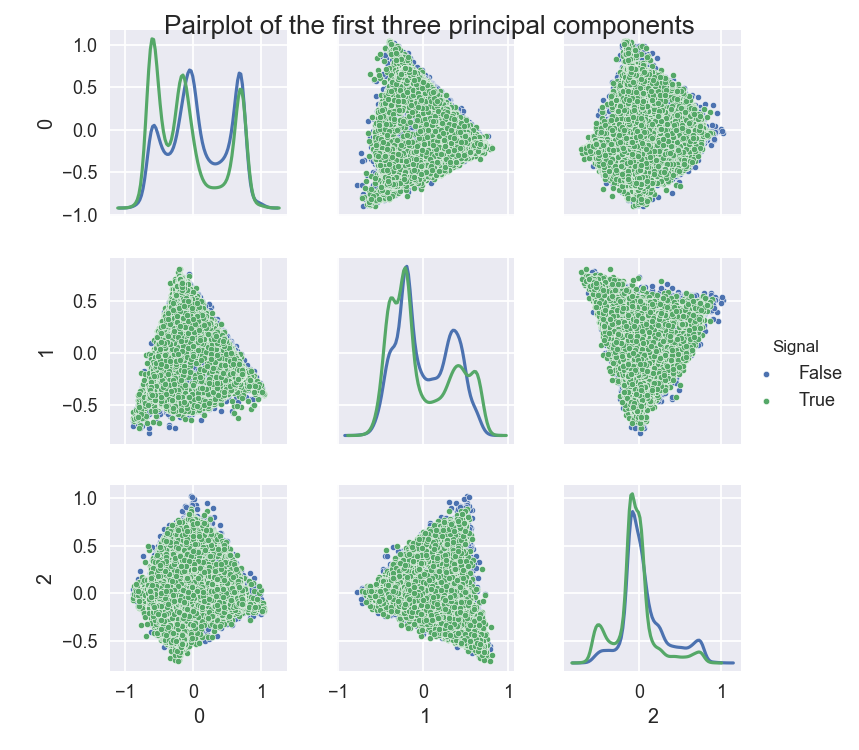
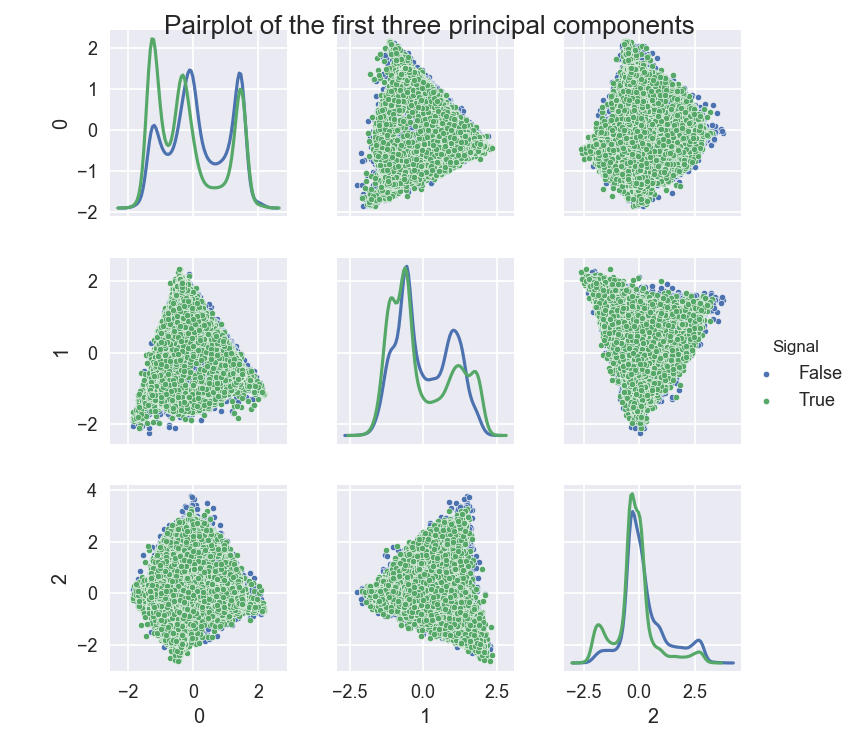
Add setup instructions

diff --git a/modules/plot_roc_curve.py b/modules/plot_roc_curve.py
@@ -6,12 +6,11 @@ from get_data import get_image, get_tau21, tidy_data
 import numpy as np
 import matplotlib.pyplot as plt
 import seaborn as sns
-sns.set_context('talk')
 
 
 def evaluate_model(X, y, model):
     sss = StratifiedShuffleSplit(n_splits=10, test_size=0.3, random_state=1)
-    mean_tpr = 0.0
+    mean_tpr = np.zeros(100)
     mean_fpr = np.linspace(0, 1, 100)
     for train_index, test_index in sss.split(X, y):
         X_train, X_test = X[train_index], X[test_index]
@@ -20,10 +19,8 @@ def evaluate_model(X, y, model):
         # Compute ROC curve
         fpr, tpr, __ = roc_curve(y_test, probas_[:, 1])
         mean_tpr += np.interp(mean_fpr, fpr, tpr)
-        mean_tpr[0] = 0.0
 
     mean_tpr /= sss.get_n_splits(X, y)
-    mean_tpr[-1] = 1.0
     mean_auc = auc(mean_fpr, mean_tpr)
     return mean_tpr, mean_fpr, mean_auc
 
@@ -37,6 +34,7 @@ def plot_roc_curve(X_img, y_img, X_tau, y_tau, ptbin):
 
     tpr, fpr, roc_auc = evaluate_model(X_tau, y_tau, models[2])
     plt.plot(fpr, tpr, label='n-subjettiness (area = %0.2f)' % roc_auc)
+    plt.plot([0, 1], [0, 1], color='black', lw=1, linestyle='--')
     plt.xlim([-0.05, 1.05])
     plt.ylim([-0.05, 1.05])
     plt.xlabel('False Positive Rate')
@@ -54,6 +52,7 @@ if __name__ == '__main__':
     else:
         datadir, ptbin = sys.argv[1], sys.argv[2]
 
+    sns.set_context('talk')
     sig_img, bkg_img = get_image(datadir, ptbin)
     sig_tau, bkg_tau = get_tau21(datadir, ptbin)
     X_img, y_img = tidy_data(sig_img, bkg_img)

diff --git a/modules/pca_analysis.py b/modules/pca_analysis.py
@@ -7,6 +7,7 @@ import seaborn as sns
 
 def pca_analysis(X, n):
     return PCA(n_components=n,
+               whiten=True,
                svd_solver='randomized',
                random_state=1).fit_transform(X)
 

diff --git a/README.md b/README.md
@@ -1,7 +1,22 @@
 # Jet classification 
-Modules for the jet classification work.
+Modules for the jet classification work. 
 
-# Running examples
+## Instructions
+  * Create a virtual environment in the development machine *ml-dev.ncc.unesp.br*
+```shell
+conda create -p .env/mlwork -c intel python=3.6
+source activate .env/mlwork
+```
+  * Install requirements
+```shell
+conda install numpy scipy matplotlib seaborn pandas scikit-learn
+```
+  * Clone github repository
+```shell
+git clone https://github.com/jruizvar/jet-classify.git
+```
+
+## Running examples
 
   * Jet images and N-subjettiness plot
 ```shell
